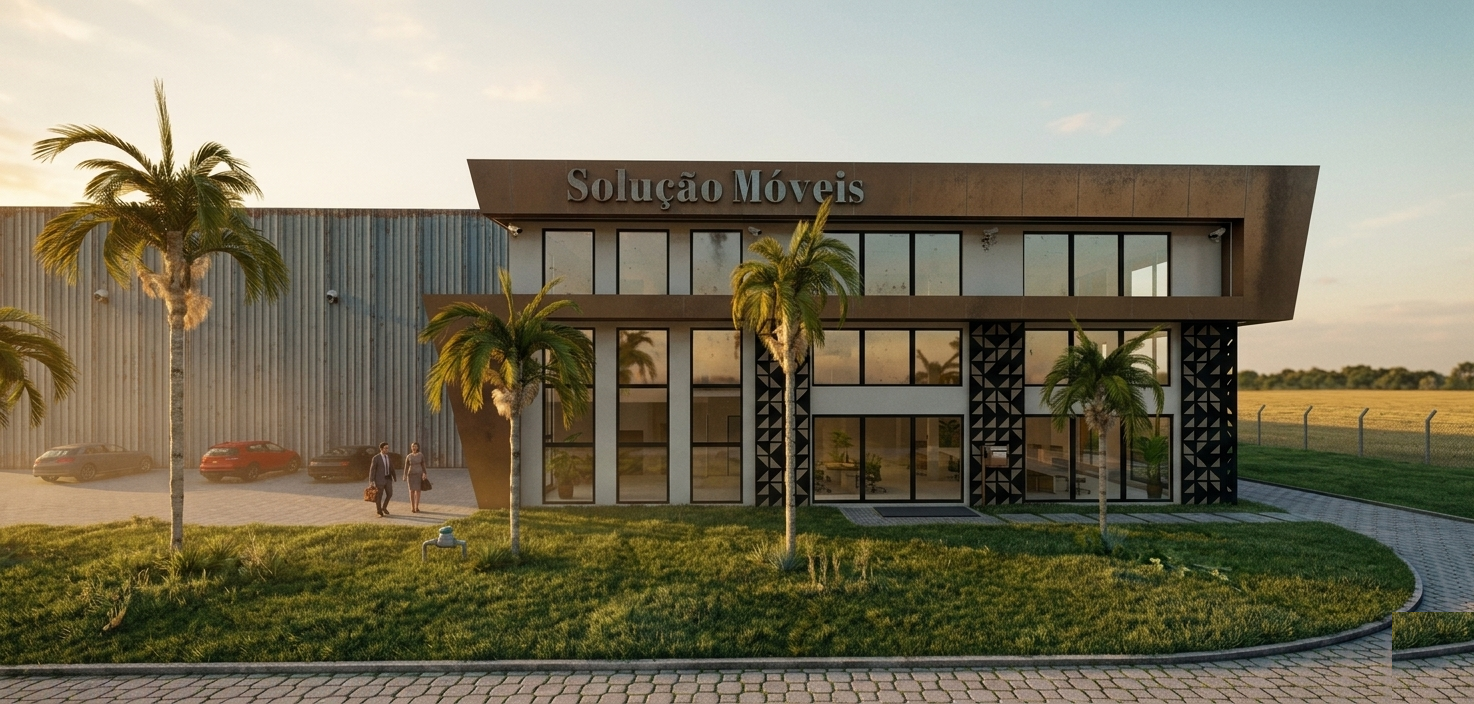
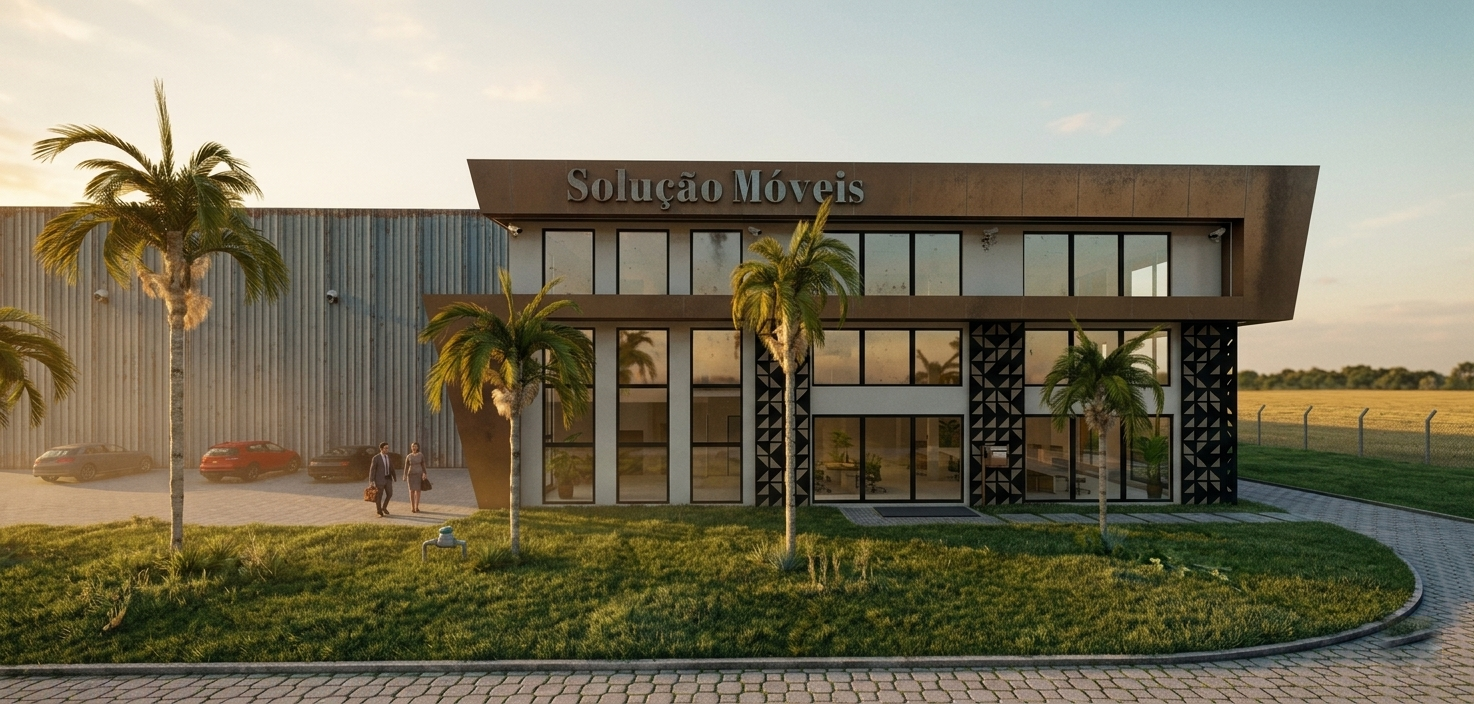
fix(landing): remove watermark do Gemini sem deixar emenda (v9)
Refaz a cobertura do watermark com clone justo e bordas suavizadas
(so piso), corrigindo o retangulo de grama/meio-fio. Cache ?v=8 -> ?v=9.

Changed region(s): [[0.9362, 0.8438, 1.0, 1.0]]

diff --git a/landing/index.html b/landing/index.html
@@ -88,7 +88,7 @@
     <div class="wrap empresa__grid">
       <div class="empresa__media reveal">
         <!-- Fachada real da fábrica -->
-        <div class="photo photo--portrait" style="background-image:url('assets/fotos/fabrica.png?v=8')" role="img" aria-label="Fábrica da Solução Móveis"></div>
+        <div class="photo photo--portrait" style="background-image:url('assets/fotos/fabrica.png?v=9')" role="img" aria-label="Fábrica da Solução Móveis"></div>
         <div class="empresa__tagcard">
           <strong>Desde 2016</strong>
           <span>metalúrgica em Santana do Paraíso/MG</span>
@@ -141,7 +141,7 @@
     <!-- carrossel das imagens da fábrica (full-bleed) -->
     <div class="car car--wide reveal" data-carousel>
       <div class="car__track" data-track>
-        <figure class="amb" style="background-image:url('assets/fotos/fabrica.png?v=8')"><figcaption>Nossa fábrica · Santana do Paraíso/MG</figcaption></figure>
+        <figure class="amb" style="background-image:url('assets/fotos/fabrica.png?v=9')"><figcaption>Nossa fábrica · Santana do Paraíso/MG</figcaption></figure>
         <figure class="amb" style="background-image:url('assets/fotos/maquina-corte.jpg')"><figcaption>Corte a laser</figcaption></figure>
         <figure class="amb" style="background-image:url('assets/fotos/robo-solda.jpg')"><figcaption>Solda robotizada</figcaption></figure>
         <figure class="amb" style="background-image:url('assets/fotos/solda-manual.jpg')"><figcaption>Solda manual</figcaption></figure>

diff --git a/landing/modelo-b/index.html b/landing/modelo-b/index.html
@@ -50,7 +50,7 @@
       </div>
       <div class="hero__media">
         <div class="frame">
-          <div class="frame__img" style="background-image:url('../assets/fotos/fabrica.png?v=8')" role="img" aria-label="Fábrica da Solução Móveis"></div>
+          <div class="frame__img" style="background-image:url('../assets/fotos/fabrica.png?v=9')" role="img" aria-label="Fábrica da Solução Móveis"></div>
         </div>
         <span class="frame__badge">Santana do Paraíso · MG</span>
       </div>
@@ -154,7 +154,7 @@
         <h2>Estrutura e processo em imagens</h2>
       </header>
       <div class="gal">
-        <figure class="gal__cell gal__cell--big" style="background-image:url('../assets/fotos/fabrica.png?v=8')"><figcaption>Santana do Paraíso/MG</figcaption></figure>
+        <figure class="gal__cell gal__cell--big" style="background-image:url('../assets/fotos/fabrica.png?v=9')"><figcaption>Santana do Paraíso/MG</figcaption></figure>
         <figure class="gal__cell" style="background-image:url('../assets/fotos/maquina-corte.jpg')"><figcaption>Corte a laser</figcaption></figure>
         <figure class="gal__cell" style="background-image:url('../assets/fotos/robo-solda.jpg')"><figcaption>Solda robotizada</figcaption></figure>
         <figure class="gal__cell" style="background-image:url('../assets/fotos/solda-manual.jpg')"><figcaption>Solda manual</figcaption></figure>

diff --git a/landing/modelo-d/styles.css b/landing/modelo-d/styles.css
@@ -41,7 +41,7 @@ h1,h2,h3{font-family:'Space Grotesk',sans-serif;font-weight:600;line-height:1.1;
 .nav.is-scrolled .nav__burger span{background:var(--ink)}
 
 /* hero (C) — imagem da fábrica bem visível, véu suave só onde fica o texto */
-.hero{position:relative;min-height:92vh;display:flex;align-items:center;padding:120px 0 70px;background:linear-gradient(100deg,rgba(26,22,17,.8) 0%,rgba(26,22,17,.58) 50%,rgba(26,22,17,.44) 100%),url('../assets/fotos/fabrica.png?v=8') center/cover;background-color:var(--inksec)}
+.hero{position:relative;min-height:92vh;display:flex;align-items:center;padding:120px 0 70px;background:linear-gradient(100deg,rgba(26,22,17,.8) 0%,rgba(26,22,17,.58) 50%,rgba(26,22,17,.44) 100%),url('../assets/fotos/fabrica.png?v=9') center/cover;background-color:var(--inksec)}
 .hero__in{position:relative;max-width:900px}
 .eyebrow{display:inline-block;font-size:12px;font-weight:700;letter-spacing:.18em;text-transform:uppercase;color:var(--orange);margin-bottom:24px}
 .hero__h1{font-family:'Newsreader',Georgia,serif;font-weight:500;font-size:clamp(38px,6.2vw,78px);line-height:1.06;letter-spacing:-.01em;color:#fff}

diff --git a/landing/modelo-c/styles.css b/landing/modelo-c/styles.css
@@ -40,7 +40,7 @@ a{color:inherit;text-decoration:none}
 .nav.is-scrolled .nav__burger span{background:var(--ink)}
 
 /* hero / manifesto */
-.hero{position:relative;min-height:92vh;display:flex;align-items:center;padding:120px 0 70px;background:linear-gradient(100deg,rgba(26,22,17,.8) 0%,rgba(26,22,17,.58) 50%,rgba(26,22,17,.44) 100%),url('../assets/fotos/fabrica.png?v=8') center/cover;background-color:var(--ink)}
+.hero{position:relative;min-height:92vh;display:flex;align-items:center;padding:120px 0 70px;background:linear-gradient(100deg,rgba(26,22,17,.8) 0%,rgba(26,22,17,.58) 50%,rgba(26,22,17,.44) 100%),url('../assets/fotos/fabrica.png?v=9') center/cover;background-color:var(--ink)}
 .hero__in{max-width:920px}
 .eyebrow{display:inline-block;font-size:12px;font-weight:700;letter-spacing:.18em;text-transform:uppercase;color:var(--orange);margin-bottom:26px}
 .hero__h1{font-size:clamp(38px,6.5vw,84px);color:#fff}

diff --git a/landing/modelo-d/index.html b/landing/modelo-d/index.html
@@ -124,7 +124,7 @@
         <h2>Estrutura e processo em imagens</h2>
       </header>
       <div class="gal">
-        <figure class="gal__cell gal__cell--big" style="background-image:url('../assets/fotos/fabrica.png?v=8')"><figcaption>Santana do Paraíso/MG</figcaption></figure>
+        <figure class="gal__cell gal__cell--big" style="background-image:url('../assets/fotos/fabrica.png?v=9')"><figcaption>Santana do Paraíso/MG</figcaption></figure>
         <figure class="gal__cell" style="background-image:url('../assets/fotos/maquina-corte.jpg')"><figcaption>Corte a laser</figcaption></figure>
         <figure class="gal__cell" style="background-image:url('../assets/fotos/robo-solda.jpg')"><figcaption>Solda robotizada</figcaption></figure>
         <figure class="gal__cell" style="background-image:url('../assets/fotos/solda-manual.jpg')"><figcaption>Solda manual</figcaption></figure>

diff --git a/landing/modelo-c/index.html b/landing/modelo-c/index.html
@@ -129,7 +129,7 @@
     </div>
     <div class="wrap split">
       <div class="split__media reveal">
-        <div class="ph-photo" style="background-image:url('../assets/fotos/fabrica.png?v=8')" role="img" aria-label="Fábrica da Solução Móveis"></div>
+        <div class="ph-photo" style="background-image:url('../assets/fotos/fabrica.png?v=9')" role="img" aria-label="Fábrica da Solução Móveis"></div>
       </div>
       <div class="split__txt reveal">
         <span class="kicker">Ofício + tecnologia</span>
